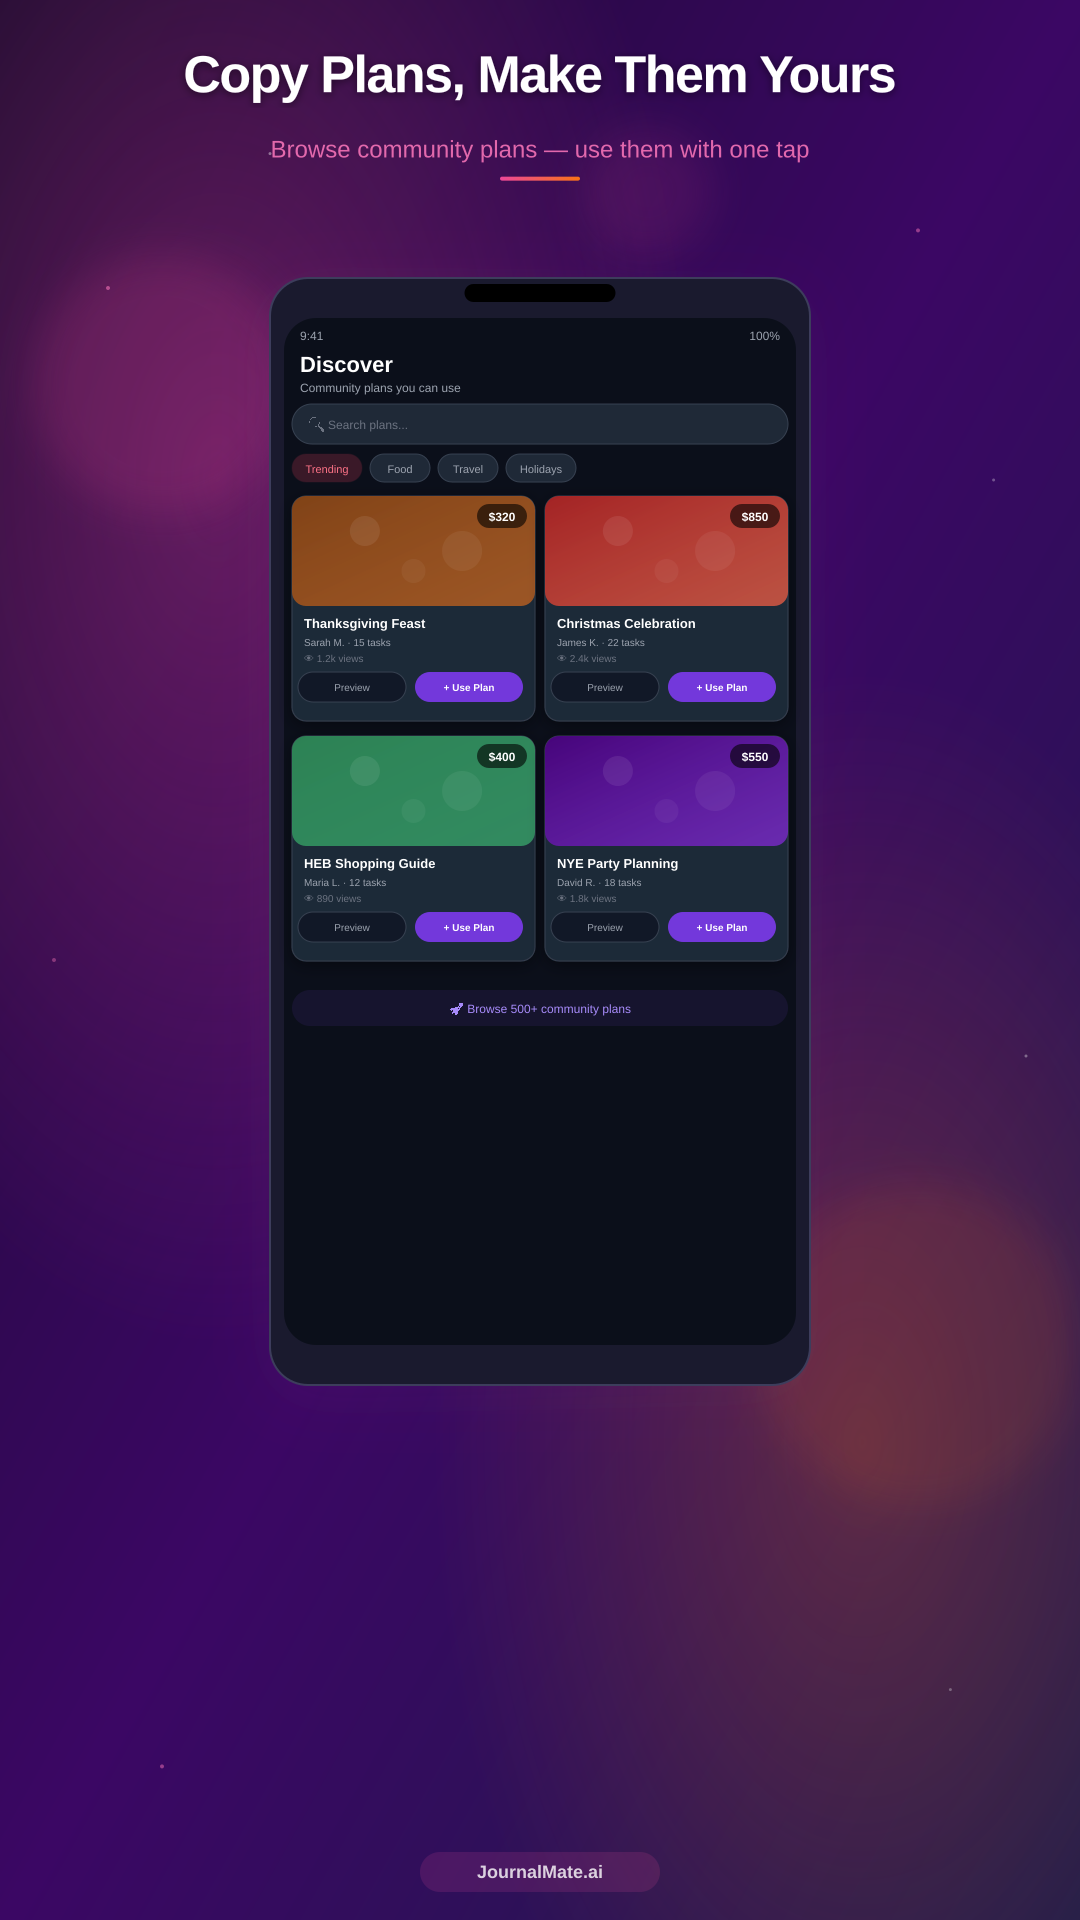
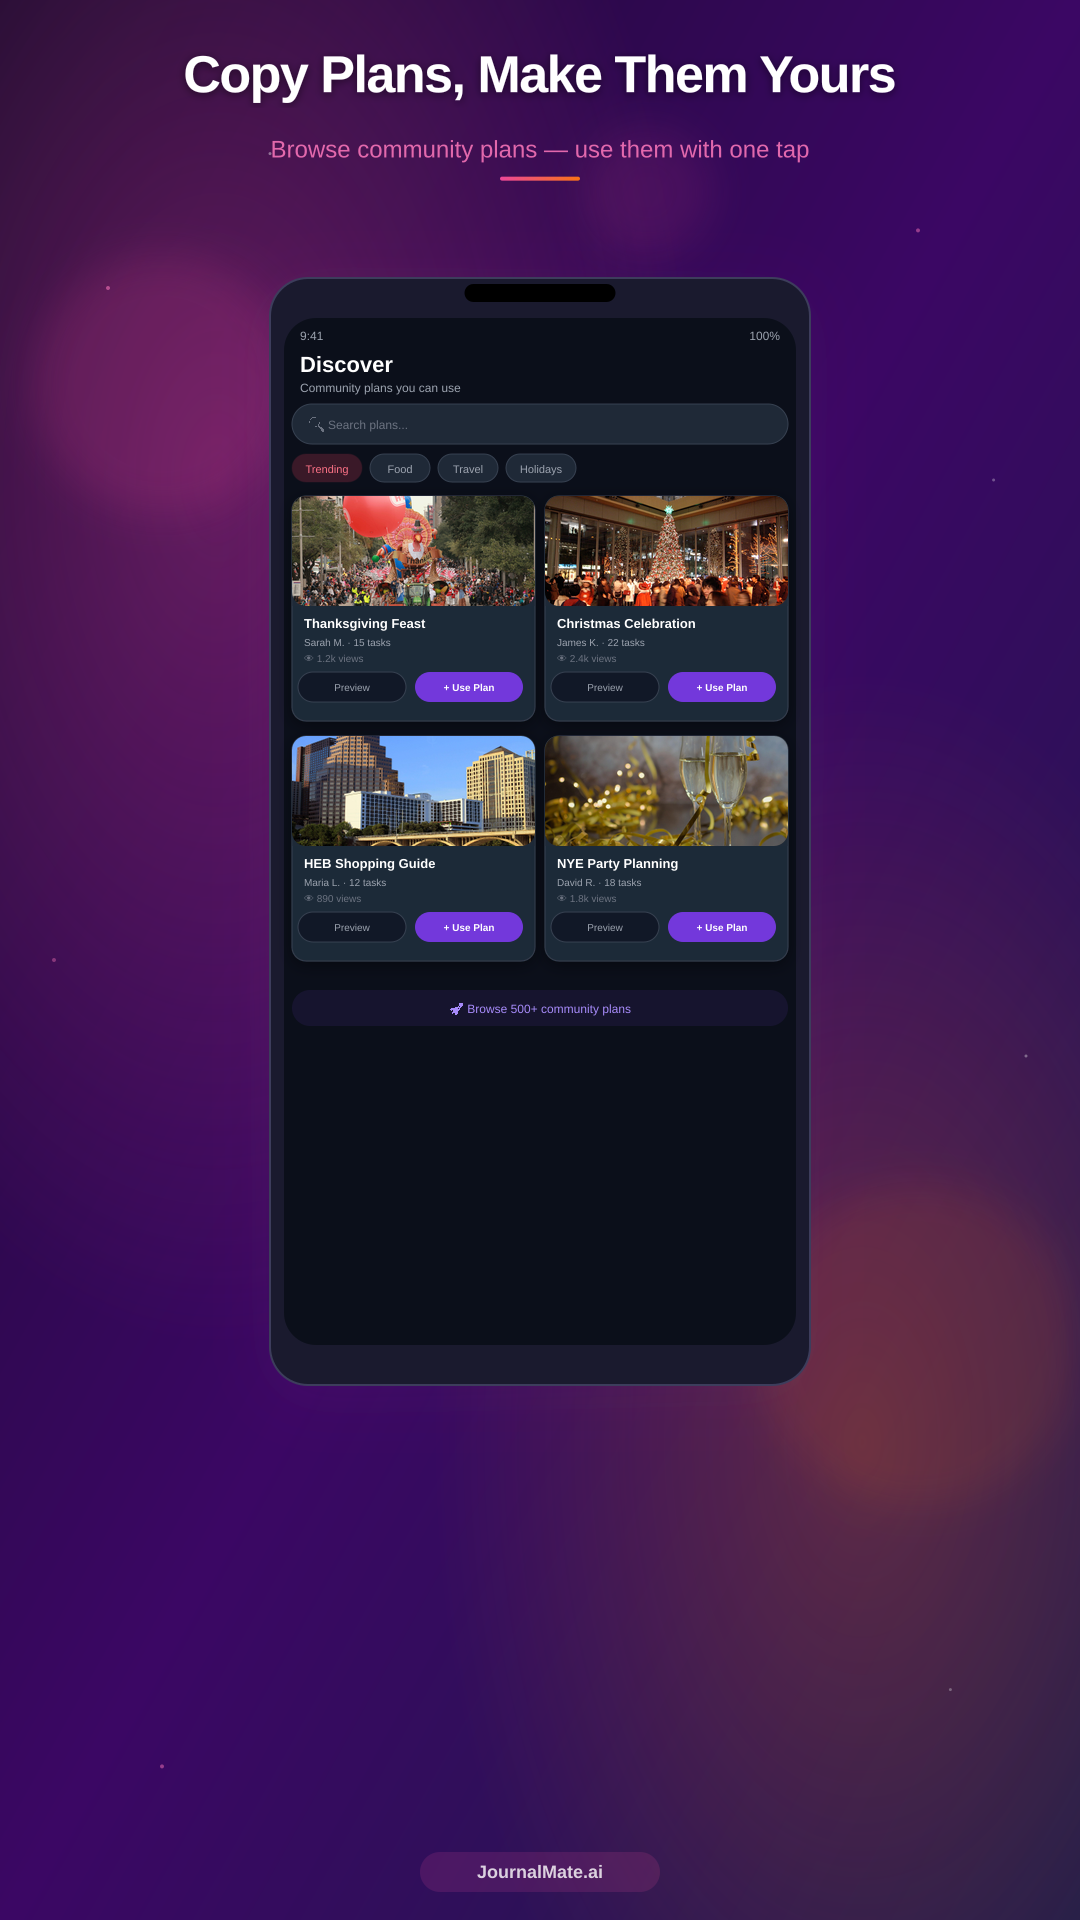
Real photos on Discover cards + Accountability screenshot + everyday planners emphasis
- Discover screenshot now composites actual community-backdrop photos
  (thanksgiving parade, christmas celebration, Austin, NYE) onto card areas
- New Screenshot 7: Accountability — reminders, calendar sync (Google/Apple/Outlook),
  trending plans near you (ACL Fest, Austin Freeze, SXSW), plan for others & earn rewards
- Updated Activities headline to "For Everyday Planners"
- Feature graphic: emphasizes "Plan for Others & Earn Rewards"
- Full store listing rewritten: leads with accountability, everyday planners,
  NEVER MISS OUT section, PLAN FOR OTHERS & EARN REWARDS section
- Cleaned up old screenshot files from previous naming scheme

https://claude.ai/code/session_01HYDKx8EUrfpqUwjP5rXHcd

Changed region(s): [[0.2444, 0.375, 0.7333, 0.4375], [0.2444, 0.25, 0.7333, 0.3125]]

diff --git a/store-assets/google-play-listing.md b/store-assets/google-play-listing.md
@@ -13,61 +13,63 @@ See it online? Own it. AI turns any link into your personal action plan.
 ## 3. Full Description (max 4000 chars)
 
 ```
-See a recipe on Instagram? A workout on TikTok? A travel guide on YouTube? Share it to JournalMate and AI instantly turns it into YOUR personalized, actionable plan.
+The everyday planner that does more than plan — it keeps you accountable.
+
+See a recipe on Instagram? A workout on TikTok? A travel guide on YouTube? Share it to JournalMate and AI instantly turns it into YOUR personalized, actionable plan. Set reminders, sync to your calendar, and never miss a thing.
+
+BUILT FOR EVERYDAY PLANNERS
+Whether you're planning a Thanksgiving dinner, prepping for a job interview, or organizing a weekend trip — JournalMate turns your ideas into action. No more bookmarking and forgetting. Plan it, track it, crush it.
 
 SHARE FROM ANYWHERE — YOUR SUPERPOWER
 JournalMate is the only planner that lets you grab content from any app and own it:
-• Share an Instagram Reel → Get a step-by-step meal plan with ingredients & budget
-• Share a TikTok workout → Get a personalized fitness routine with scheduling
-• Share a YouTube travel vlog → Get a complete trip itinerary with costs & bookings
-• Paste a ChatGPT conversation → Get organized action items instantly
-• Share any URL → AI extracts the key info and builds your plan
+• Share an Instagram Reel → Get a step-by-step meal plan with budget
+• Share a TikTok workout → Get a personalized fitness routine
+• Share a YouTube travel vlog → Get a complete itinerary with costs
+• Paste a ChatGPT conversation → Get organized action items
+• Share any URL → AI extracts everything and builds your plan
 
-Our AI reads audio, captions, images (OCR), and text to extract everything — venues, prices, ingredients, exercises, destinations — then structures it into tasks you can track, schedule, and complete.
+Our AI reads audio, captions, images (OCR), and text to extract venues, prices, ingredients, exercises, and destinations — then structures it into tasks you can track and complete.
 
-PLAN ANYTHING WITH AI
-Don't have a link? Just tell JournalMate what you want to do. AI asks smart follow-up questions about your preferences, budget, and schedule, then generates a detailed plan:
+COPY COMMUNITY PLANS
+Browse hundreds of plans shared by real people — Thanksgiving Feast ($320), Christmas Celebration ($850), Shopping Guides, NYE Party Plans, and more. See what's trending near you. Preview any plan and add it with one tap. Customize it, make it yours.
 
-★ Weekend getaways & travel itineraries with real-time info
+NEVER MISS OUT — REMINDERS & CALENDAR SYNC
+• Set smart reminders for every task
+• Auto-sync to Google Calendar, Apple Calendar, or Outlook
+• Get AI-powered timing suggestions (e.g., "Book now — prices drop in 3 days")
+• See trending plans near your location so you never miss local events
+
+PLAN FOR OTHERS & EARN REWARDS
+Create plans for friends and family. Share your Thanksgiving menu, your workout routine, or your travel itinerary with the community. The more you plan and share:
+• Earn badges: Task Rookie, Task Pro, Perfectionist, Social Butterfly, Group Leader, Planner, and 14 more
+• Track streaks and climb the leaderboard
+• Get recognized as a top planner in your community
+
+COLLABORATE WITH GROUPS
+Create groups for shared goals — Thanksgiving planning with family, fitness challenges with friends, book clubs, travel squads. See everyone's progress and achieve goals together.
+
+KEY FEATURES
+✦ AI Planning: Quick Plan (instant) or Smart Plan (personalized)
+✦ Share-to-Plan: Instagram, TikTok, YouTube, ChatGPT, Claude, any URL
+✦ Smart Extraction: AI reads audio, captions, images, and text
+✦ Community Plans: Browse & use plans shared by others
+✦ Reminders & Calendar Sync: Never miss an event
+✦ Trending Near You: See what plans are popular in your area
+✦ Task Management: Complete, snooze, schedule, archive
+✦ Groups & Collaboration: Plan together, track team progress
+✦ Badges & Streaks: Earn 20+ achievement badges
+✦ Personal Journal: Track movies, books, restaurants, experiences
+✦ Voice Input: Speak your goals naturally
+✦ AI Recommendations: Tips, costs, and venue suggestions per task
+
+PLAN ANYTHING
+★ Weekend trips & travel itineraries
 ★ Date nights & romantic experiences
 ★ Workout routines & health goals
 ★ Thanksgiving dinners & holiday parties
 ★ Career development & interview prep
 ★ Home projects & family activities
 ★ Financial planning & meal prep
-★ Spiritual growth & mindfulness practices
-
-COPY COMMUNITY PLANS
-Browse hundreds of plans shared by real people — Thanksgiving Feast ($320 budget), Christmas Celebration ($850), Holiday Shopping Guides, NYE Party Plans, and more. Preview any plan and add it to your collection with one tap. Customize it, make it yours.
-
-COLLABORATE WITH GROUPS
-Create groups for shared goals — Thanksgiving planning with family, fitness challenges with friends, book clubs, travel squads. See everyone's progress, share plans, and achieve goals together.
-
-TRACK EVERYTHING & EARN REWARDS
-• Complete tasks with one tap — snooze, schedule to calendar, or skip
-• Track streaks, completion rates, and weekly progress charts
-• Earn badges: Task Rookie, Task Pro, Perfectionist, Social Butterfly, Group Leader, Planner, and 14 more
-• See your growth with detailed analytics by category
-
-KEY FEATURES
-✦ Smart AI Planning: Quick Plan (instant) or Smart Plan (personalized questions)
-✦ Share-to-Plan: Share from Instagram, TikTok, YouTube, ChatGPT, Claude, any URL
-✦ Smart Extraction: AI reads audio, captions, images, and text from any source
-✦ Community Plans: Browse, preview, and use plans shared by others
-✦ Task Management: Complete, snooze, schedule, archive — your way
-✦ Groups & Collaboration: Plan together, track team progress
-✦ Badges & Streaks: Earn 20+ achievement badges
-✦ Personal Journal: Track movies, books, restaurants, and experiences
-✦ Calendar Sync: Add tasks directly to your phone calendar
-✦ Voice Input: Speak your goals naturally
-✦ AI Recommendations: Get smart tips, cost estimates, and venue suggestions per task
-✦ Daily Themes: Curated planning inspiration every day
-
-POWERED BY AI
-Built on advanced AI models that understand context, preferences, and real-world data. Every plan includes budget estimates, timing suggestions, venue recommendations, and actionable tips tailored to you.
-
-PLAN FOR OTHERS & GET REWARDS
-Create plans for friends and family. Share your best plans with the community. The more you plan and share, the more badges you earn and the higher you climb.
 
 PRIVACY FIRST
 Your data stays yours. Plans and journal entries are private by default. Share only what you choose.
@@ -90,7 +92,7 @@ What's New in 1.1.7:
 | Field | Value |
 |-------|-------|
 | App Category | Productivity |
-| Tags | planner, goals, journal, AI, lifestyle, share, social |
+| Tags | planner, goals, journal, AI, lifestyle, share, social, reminders |
 | Content Rating | Everyone |
 
 ## 6. Screenshots Order (recommended upload sequence)
@@ -98,11 +100,12 @@ What's New in 1.1.7:
 | # | File | Headline | Why This Order |
 |---|------|----------|----------------|
 | 1 | `phone/01-share-from-anywhere-1080x1920.png` | See It Online? Own It. | Hero differentiator — the #1 unique feature |
-| 2 | `phone/02-discover-plans-1080x1920.png` | Copy Plans, Make Them Yours | Social proof with real plans & prices |
-| 3 | `phone/03-my-activities-1080x1920.png` | Plan It. Track It. Crush It. | Shows the core planning experience |
+| 2 | `phone/02-discover-plans-1080x1920.png` | Copy Plans, Make Them Yours | Social proof with real photos & prices |
+| 3 | `phone/03-my-activities-1080x1920.png` | For Everyday Planners | Shows the core planning experience |
 | 4 | `phone/04-smart-tasks-1080x1920.png` | AI Plans Every Detail | Deep task detail with AI recommendations |
-| 5 | `phone/05-reports-badges-1080x1920.png` | Track Growth & Earn Badges | Gamification & retention hook |
-| 6 | `phone/06-groups-collab-1080x1920.png` | Achieve Goals Together | Social/collaborative features |
+| 5 | `phone/07-accountability-1080x1920.png` | Never Miss a Thing | Reminders, calendar sync, trending near you |
+| 6 | `phone/05-reports-badges-1080x1920.png` | Track Growth & Earn Badges | Gamification & retention hook |
+| 7 | `phone/06-groups-collab-1080x1920.png` | Achieve Goals Together | Social/collaborative features |
 
 ## 7. Upload Checklist
 
@@ -110,7 +113,7 @@ What's New in 1.1.7:
 |-------|--------|------|
 | App Icon (512x512) | Ready | `app-icon-512x512.png` |
 | Feature Graphic (1024x500) | Ready | `feature-graphic-1024x500.png` |
-| Phone Screenshots (6) | Ready | `phone/*.png` |
+| Phone Screenshots (7) | Ready | `phone/*.png` (with real photos on Discover) |
 | 7" Tablet Screenshots (4) | Ready | `tablet-7inch/*.png` |
 | 10" Tablet Screenshots (4) | Ready | `tablet-10inch/*.png` |
 | AAB Bundle | Ready | `android/app/build/outputs/bundle/release/app-release.aab` |
@@ -120,8 +123,8 @@ What's New in 1.1.7:
 
 ## 8. ASO (App Store Optimization) Keywords
 
-Primary: `AI planner, lifestyle planner, goal tracker, task manager, share to plan`
-Secondary: `Instagram planner, TikTok planner, meal plan, travel planner, workout planner, group goals, habit tracker, journal, badges, AI planning, community plans`
+Primary: `AI planner, everyday planner, goal tracker, task manager, share to plan, reminders`
+Secondary: `Instagram planner, TikTok planner, meal plan, travel planner, workout planner, group goals, habit tracker, journal, badges, AI planning, community plans, calendar sync, plan for others`
 
 ## 9. Feature Graphic Specs
 
@@ -129,6 +132,6 @@ The feature graphic (`feature-graphic-1024x500.png`) includes:
 - Actual app logo (composited from `android-play-store-512.png`)
 - Hero tagline: "See It. Share It. Own It."
 - Source platform flow: Instagram → TikTok → YouTube → ChatGPT → Any URL → Your Plan
-- 4 key features: AI-Powered Planning, Share & Copy Plans, Collaborate with Groups, Earn Rewards
+- 4 key features: AI-Powered Everyday Planning, Copy & Share Plans Online, Plan for Others & Earn Rewards, Collaborate Track & Achieve
 - 3 phone mockups showing Discover, Activities, and Groups screens
 - Vibrant cosmic purple-to-teal gradient background
